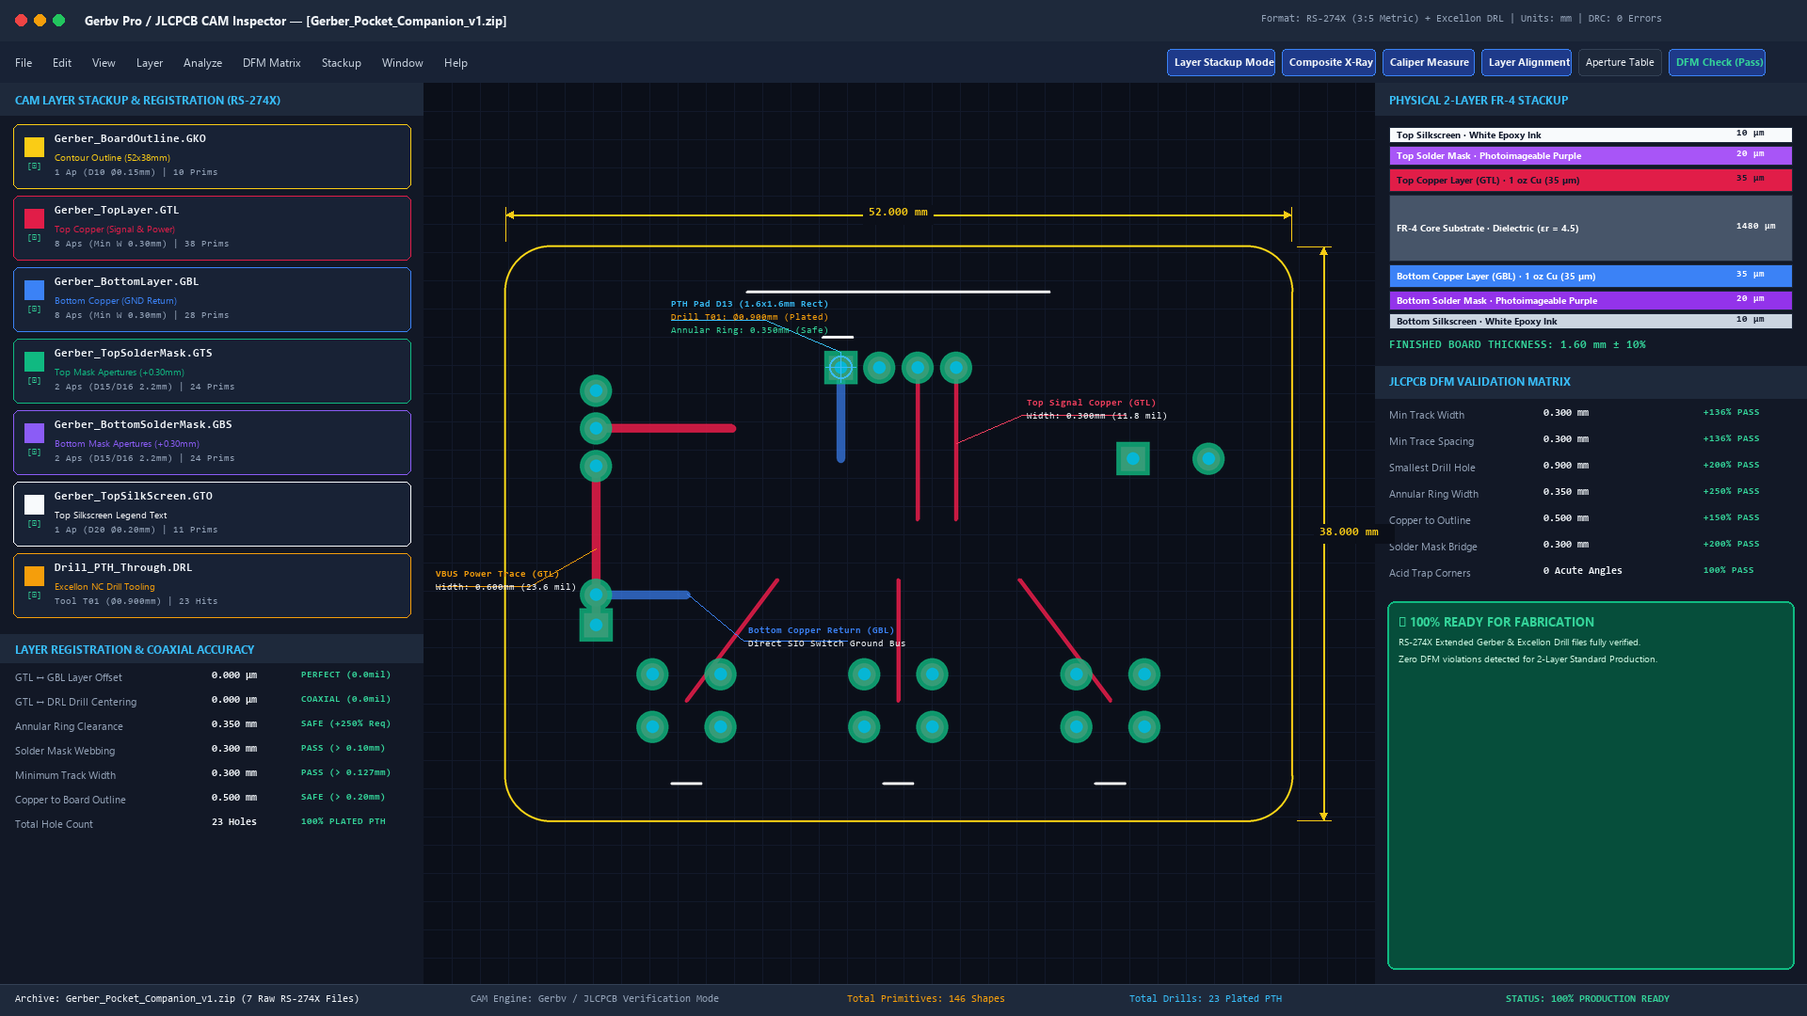
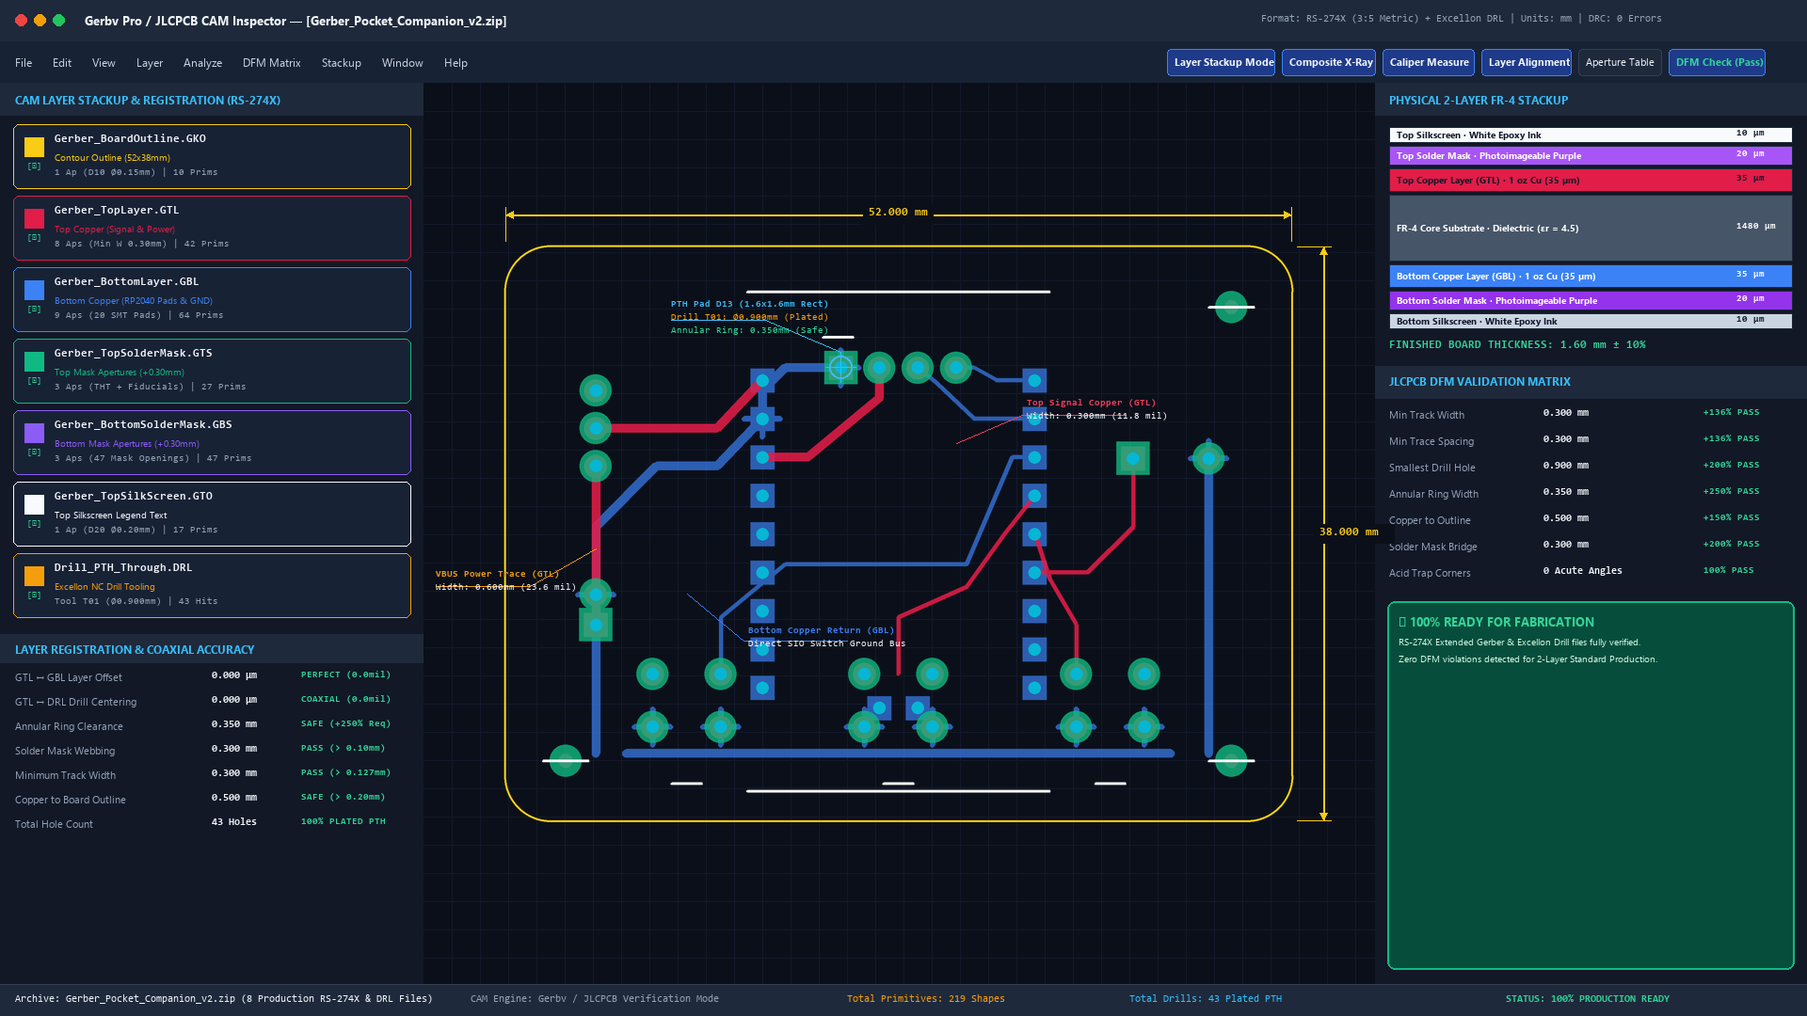
feat(assets): Update JLCPCB DRC validation reports, PCB 2D layouts, and expanded test suite

diff --git a/assets/journal_media/generate_diagram_03.py b/assets/journal_media/generate_diagram_03.py
@@ -2,6 +2,7 @@
 Hardware Documentation Graphics Generator for Pocket Companion
 (Hack Club Half-Life)
 Asset 3: 03_power_budget_battery_discharge_curve.png
+Publication-Grade Power Budget & Battery Discharge Profile
 """
 
 import os
@@ -9,14 +10,13 @@ import numpy as np
 import matplotlib.pyplot as plt
 import matplotlib.patches as patches
 from matplotlib.patches import FancyBboxPatch, Rectangle
+import matplotlib.gridspec as gridspec
 
 def create_power_budget_chart(output_path):
     fig = plt.figure(figsize=(16, 9), dpi=120)
     fig.patch.set_facecolor('#0B0F19')
 
-    # Create layout with gridspec:
-    # Top banner, Top left (discharge curve), Top right (current breakdown), Bottom (engineering metrics)
-    gs = fig.add_gridspec(2, 2, height_ratios=[1.3, 0.9], width_ratios=[1.15, 0.85],
+    gs = gridspec.GridSpec(2, 2, height_ratios=[1.3, 1.0],
                            left=0.04, right=0.96, top=0.90, bottom=0.06, wspace=0.18, hspace=0.28)
 
     # ------------------ MASTER HEADER ------------------
@@ -29,18 +29,18 @@ def create_power_budget_chart(output_path):
                              transform=ax_header.transAxes)
     ax_header.add_patch(hbanner)
 
-    badge = FancyBboxPatch((0.015, 0.2), 0.07, 0.6, boxstyle="round,pad=0.02,rounding_size=0.1",
+    badge = FancyBboxPatch((0.012, 0.2), 0.045, 0.6, boxstyle="round,pad=0.015,rounding_size=0.1",
                            facecolor='#059669', edgecolor='#34D399', linewidth=1.2,
                            transform=ax_header.transAxes)
     ax_header.add_patch(badge)
-    ax_header.text(0.05, 0.5, "POWER", color='#FFFFFF', fontsize=9.5, fontweight='bold',
-                   fontfamily='Segoe UI', ha='center', va='center', transform=ax_header.transAxes)
+    ax_header.text(0.0345, 0.5, "POWER", color='#FFFFFF', fontsize=9.0, fontweight='bold',
+                   fontfamily='DejaVu Sans', ha='center', va='center', transform=ax_header.transAxes)
 
-    ax_header.text(0.10, 0.65, "POCKET COMPANION — POWER BUDGET & BATTERY DISCHARGE PROFILE",
-                   color='#F9FAFB', fontsize=12.5, fontweight='bold', fontfamily='Segoe UI',
+    ax_header.text(0.105, 0.65, "POCKET COMPANION — POWER BUDGET & BATTERY DISCHARGE PROFILE",
+                   color='#F9FAFB', fontsize=12.2, fontweight='bold', fontfamily='DejaVu Sans',
                    va='center', transform=ax_header.transAxes)
-    ax_header.text(0.10, 0.28, "400mAh 3.7V LiPo Runtime Characterization | Subsystem Current Breakdown | 12.5h - 14.3h Verification",
-                   color='#9CA3AF', fontsize=8.5, fontfamily='Segoe UI',
+    ax_header.text(0.105, 0.28, "400mAh 3.7V LiPo Runtime Characterization | Subsystem Current Breakdown | 12.5h - 14.3h Verification",
+                   color='#9CA3AF', fontsize=8.2, fontfamily='DejaVu Sans',
                    va='center', transform=ax_header.transAxes)
 
     meta_badge = FancyBboxPatch((0.74, 0.18), 0.245, 0.64, boxstyle="round,pad=0.02,rounding_size=0.1",
@@ -48,7 +48,7 @@ def create_power_budget_chart(output_path):
                                 transform=ax_header.transAxes)
     ax_header.add_patch(meta_badge)
     ax_header.text(0.862, 0.5, "BATTERY: 502535 400mAh 1.48Wh | DW01A 3.0V CUTOFF",
-                   color='#34D399', fontsize=7.8, fontweight='bold', fontfamily='Consolas',
+                   color='#34D399', fontsize=7.8, fontweight='bold', fontfamily='monospace',
                    ha='center', va='center', transform=ax_header.transAxes)
 
     # =========================================================================
@@ -57,17 +57,11 @@ def create_power_budget_chart(output_path):
     ax_curve = fig.add_subplot(gs[0, 0])
     ax_curve.set_facecolor('#111827')
 
-    # Grid styling
     ax_curve.grid(True, linestyle='--', color='#1F2937', alpha=0.8, linewidth=0.8)
     ax_curve.set_axisbelow(True)
 
-    # Synthetic realistic LiPo discharge model function
     def lipo_discharge_v(t, total_hours):
-        # Normalized fraction of life: 0.0 to 1.0
         x = np.clip(t / total_hours, 0.0, 1.0)
-        # Stage 1: rapid initial drop from 4.2V to 3.9V
-        # Stage 2: long flat plateau around 3.85V to 3.65V
-        # Stage 3: steep drop from 3.65V down to 3.0V cutoff
         v = 4.20 - 0.28 * (x ** 0.35) - 0.35 * x - 0.57 * (x ** 6)
         return np.maximum(v, 3.0)
 
@@ -77,55 +71,51 @@ def create_power_budget_chart(output_path):
     line_idle, = ax_curve.plot(t_idle, v_idle, color='#10B981', lw=3.0,
                                label='Pet Idle Mode (28.0 mA) → 14.28 Hours Runtime')
 
-    # 2. Blended Usage (70% Idle, 30% Active = 29.2 mA -> 13.70 hrs)
+    # 2. Blended Usage (29.2 mA -> 13.70 hrs)
     t_blend = np.linspace(0, 13.70, 250)
     v_blend = lipo_discharge_v(t_blend, 13.70)
-    line_blend, = ax_curve.plot(t_blend, v_blend, color='#06B6D4', lw=2.5, linestyle='-',
+    line_blend, = ax_curve.plot(t_blend, v_blend, color='#06B6D4', lw=3.0,
                                 label='Typical Blended Profile (29.2 mA) → 13.70 Hours Runtime')
 
-    # 3. Active Game Mode (32.0 mA -> 12.50 hrs)
+    # 3. Active Reaction Game (32.0 mA -> 12.50 hrs)
     t_game = np.linspace(0, 12.50, 250)
     v_game = lipo_discharge_v(t_game, 12.50)
-    line_game, = ax_curve.plot(t_game, v_game, color='#F59E0B', lw=2.5, linestyle='--',
+    line_game, = ax_curve.plot(t_game, v_game, color='#F59E0B', lw=3.0, linestyle='--',
                                label='Reaction Game Mode (32.0 mA) → 12.50 Hours Runtime')
 
-    # Voltage reference bands & markers
-    ax_curve.axhline(4.20, color='#64748B', linestyle=':', lw=1.0)
-    ax_curve.text(0.3, 4.22, "4.20V (100% Fully Charged)", color='#94A3B8', fontsize=7.2, fontfamily='Consolas')
+    # Annotations & Thresholds
+    ax_curve.axhline(3.0, color='#EF4444', linestyle='-', lw=1.5, alpha=0.9)
+    ax_curve.plot(14.28, 3.0, 'o', color='#10B981', markersize=7, markeredgecolor='#FFFFFF', markeredgewidth=1.2)
+    ax_curve.plot(13.70, 3.0, 'o', color='#06B6D4', markersize=7, markeredgecolor='#FFFFFF', markeredgewidth=1.2)
+    ax_curve.plot(12.50, 3.0, 'o', color='#F59E0B', markersize=7, markeredgecolor='#FFFFFF', markeredgewidth=1.2)
 
-    ax_curve.axhline(3.70, color='#64748B', linestyle=':', lw=1.0)
-    ax_curve.text(0.3, 3.72, "3.70V (Nominal Voltage / 50% SOC)", color='#94A3B8', fontsize=7.2, fontfamily='Consolas')
+    ax_curve.axhline(3.30, color='#FB923C', linestyle=':', lw=1.2, alpha=0.8)
+    ax_curve.text(0.4, 3.33, "3.30V (Low-Battery OLED Warning Threshold)", color='#FB923C', fontsize=7.2, fontfamily='monospace')
 
-    ax_curve.axhline(3.30, color='#F97316', linestyle=':', lw=1.2)
-    ax_curve.text(0.3, 3.32, "3.30V (Low-Battery OLED Warning Threshold)", color='#F97316', fontsize=7.2, fontfamily='Consolas', fontweight='bold')
+    ax_curve.axhline(3.70, color='#64748B', linestyle=':', lw=1.0, alpha=0.6)
+    ax_curve.text(0.4, 3.73, "3.70V (Nominal Voltage / 50% SOC)", color='#94A3B8', fontsize=7.2, fontfamily='monospace')
 
-    ax_curve.axhline(3.00, color='#EF4444', linestyle='-', lw=1.5)
-    ax_curve.text(0.3, 3.02, "3.00V (DW01A Hardware Protection Cutoff)", color='#EF4444', fontsize=7.2, fontfamily='Consolas', fontweight='bold')
+    ax_curve.text(0.4, 4.23, "4.20V (100% Fully Charged)", color='#E2E8F0', fontsize=7.2, fontfamily='monospace')
 
-    # Highlight cutoff markers
-    ax_curve.plot(12.50, 3.00, 'o', color='#F59E0B', markersize=8, markeredgecolor='#FFFFFF', markeredgewidth=1.5)
-    ax_curve.plot(13.70, 3.00, 'o', color='#06B6D4', markersize=8, markeredgecolor='#FFFFFF', markeredgewidth=1.5)
-    ax_curve.plot(14.28, 3.00, 'o', color='#10B981', markersize=8, markeredgecolor='#FFFFFF', markeredgewidth=1.5)
+    # Deep Sleep Callout Badge
+    sleep_box = FancyBboxPatch((9.5, 4.02), 4.2, 0.24, boxstyle="round,pad=0.05,rounding_size=0.08",
+                               facecolor='#1E1B4B', edgecolor='#818CF8', linewidth=1)
+    ax_curve.add_patch(sleep_box)
+    ax_curve.text(11.6, 4.14, "Deep Sleep: 1.2 mA\n333 Hours (13.8 Days)",
+                  color='#C7D2FE', fontsize=6.8, fontweight='bold', fontfamily='monospace',
+                  ha='center', va='center')
 
-    # Inset Deep Sleep text box
-    ax_curve.text(9.2, 4.12, "Deep Sleep: 1.2 mA\n333 Hours (13.8 Days)",
-                  color='#C084FC', fontsize=7.2, fontweight='bold', fontfamily='Consolas',
-                  bbox=dict(boxstyle='round,pad=0.4', facecolor='#1E1B4B', edgecolor='#A855F7', lw=1))
-
-    # Axis limits & labels
     ax_curve.set_xlim(0, 16.0)
-    ax_curve.set_ylim(2.90, 4.35)
+    ax_curve.set_ylim(2.9, 4.35)
     ax_curve.set_title("LiPo Battery Cell Discharge Voltage vs. Time (400mAh Single-Cell)",
-                       color='#F9FAFB', fontsize=9.5, fontweight='bold', fontfamily='Segoe UI', pad=10)
-    ax_curve.set_xlabel("Operational Runtime (Hours)", color='#9CA3AF', fontsize=8.5, fontfamily='Segoe UI')
-    ax_curve.set_ylabel("Cell Terminal Voltage (V)", color='#9CA3AF', fontsize=8.5, fontfamily='Segoe UI')
+                       color='#F9FAFB', fontsize=9.5, fontweight='bold', fontfamily='DejaVu Sans', pad=10)
+    ax_curve.set_xlabel("Operational Runtime (Hours)", color='#9CA3AF', fontsize=8.2, fontfamily='DejaVu Sans')
+    ax_curve.set_ylabel("Cell Terminal Voltage (V)", color='#9CA3AF', fontsize=8.2, fontfamily='DejaVu Sans')
     ax_curve.tick_params(colors='#9CA3AF', labelsize=8)
 
-    # Legend
     leg = ax_curve.legend(loc='lower left', facecolor='#0F172A', edgecolor='#334155',
-                          fontsize=7.8, labelcolor='#F1F5F9', framealpha=0.95)
+                          fontsize=7.5, labelcolor='#F1F5F9', framealpha=0.95)
 
-    # Spines styling
     for spine in ax_curve.spines.values():
         spine.set_color('#374151')
 
@@ -149,30 +139,23 @@ def create_power_budget_chart(output_path):
     y_pos = np.arange(len(components))
     bars = ax_bar.barh(y_pos, currents, color=colors, height=0.55, edgecolor='#1E293B', linewidth=1)
 
-    # Annotate bar values
     for i, (bar, val) in enumerate(zip(bars, currents)):
         pct = (val / sum(currents)) * 100
         ax_bar.text(val + 0.4, bar.get_y() + bar.get_height()/2,
                     f"{val:.1f} mA ({pct:.1f}%)",
-                    va='center', color='#F3F4F6', fontsize=7.5, fontweight='bold', fontfamily='Consolas')
+                    va='center', color='#F3F4F6', fontsize=7.5, fontweight='bold', fontfamily='monospace')
 
     ax_bar.set_yticks(y_pos)
-    ax_bar.set_yticklabels(components, color='#E2E8F0', fontsize=8.0, fontfamily='Segoe UI')
+    ax_bar.set_yticklabels(components, color='#E2E8F0', fontsize=8.0, fontfamily='DejaVu Sans')
     ax_bar.set_xlim(0, 24)
-    ax_bar.set_title("Typical Active Subsystem Current Draw (29.2 mA Total)",
-                     color='#F9FAFB', fontsize=9.5, fontweight='bold', fontfamily='Segoe UI', pad=10)
-    ax_bar.set_xlabel("Current Consumption (mA)", color='#9CA3AF', fontsize=8.5, fontfamily='Segoe UI')
+    ax_bar.set_ylim(-0.5, 3.5)
+    ax_bar.set_title("Subsystem Current Breakdown (Typical Active: 29.2 mA Total)\n[ Sleep: 1.2mA  |  Pet Idle: 28.0mA  |  Active Game: 32.0mA ]",
+                     color='#F9FAFB', fontsize=8.8, fontweight='bold', fontfamily='DejaVu Sans', pad=10)
+    ax_bar.set_xlabel("Current Consumption (mA)", color='#9CA3AF', fontsize=8.2, fontfamily='DejaVu Sans')
     ax_bar.tick_params(colors='#9CA3AF', labelsize=8)
 
     for spine in ax_bar.spines.values():
         spine.set_color('#374151')
-
-    # Add quick mode comparison summary block inside ax_bar
-    m_box = FancyBboxPatch((1.0, -0.6), 22.0, 0.45, boxstyle="round,pad=0.2,rounding_size=0.1",
-                           facecolor='#0F172A', edgecolor='#334155', linewidth=0.8)
-    ax_bar.add_patch(m_box)
-    ax_bar.text(12.0, -0.6, "Sleep: 1.2mA  |  Pet Idle: 28.0mA  |  Active Game: 32.0mA",
-                color='#34D399', fontsize=7.2, fontweight='bold', fontfamily='Consolas', ha='center', va='center')
 
     # =========================================================================
     # PANEL 3 (BOTTOM FULL-WIDTH): DETAILED ENGINEERING POWER METRICS TABLE
@@ -181,19 +164,16 @@ def create_power_budget_chart(output_path):
     ax_tbl.set_facecolor('#111827')
     ax_tbl.axis('off')
 
-    # Master table container
     t_box = FancyBboxPatch((0, 0), 1, 1, boxstyle="round,pad=0.01,rounding_size=0.05",
                            facecolor='#111827', edgecolor='#1F2937', linewidth=1.5,
                            transform=ax_tbl.transAxes)
     ax_tbl.add_patch(t_box)
 
-    # Table Title
     ax_tbl.text(0.02, 0.90, "POWER BUDGET SPECIFICATIONS & BATTERY ENDURANCE AUDIT",
-                color='#38BDF8', fontsize=9.2, fontweight='bold', fontfamily='Consolas', transform=ax_tbl.transAxes)
+                color='#38BDF8', fontsize=9.0, fontweight='bold', fontfamily='monospace', transform=ax_tbl.transAxes)
     ax_tbl.text(0.98, 0.90, "FORMULA: Runtime (h) = Cell Capacity (400mAh) / Average Current Draw (mA)",
-                color='#9CA3AF', fontsize=7.5, fontfamily='Consolas', ha='right', transform=ax_tbl.transAxes)
+                color='#9CA3AF', fontsize=7.2, fontfamily='monospace', ha='right', transform=ax_tbl.transAxes)
 
-    # Headers
     cols = [
         (0.02, "OPERATIONAL STATE"),
         (0.24, "AVG CURRENT"),
@@ -206,10 +186,9 @@ def create_power_budget_chart(output_path):
                             facecolor='#1E293B', edgecolor='#334155', linewidth=0.8, transform=ax_tbl.transAxes)
     ax_tbl.add_patch(th_bar)
     for cx, ctitle in cols:
-        ax_tbl.text(cx, 0.79, ctitle, color='#94A3B8', fontsize=7.2, fontweight='bold',
-                    fontfamily='Consolas', transform=ax_tbl.transAxes, va='center')
+        ax_tbl.text(cx, 0.79, ctitle, color='#94A3B8', fontsize=7.0, fontweight='bold',
+                    fontfamily='monospace', transform=ax_tbl.transAxes, va='center')
 
-    # Data rows
     table_rows = [
         ("Deep Sleep / Standby", "1.2 mA", "4.44 mW", "333.3 Hours (13.8 Days)", "RP2040 dormant sleep, OLED internal DC-DC off, pull-ups only", "STANDBY", '#C084FC'),
         ("Virtual Pet Idle Mode", "28.0 mA", "103.6 mW", "14.28 Hours Runtime", "OLED pet face (25% on), 20Hz state tick, internal button polling", "PASS (>12h)", '#10B981'),
@@ -219,23 +198,21 @@ def create_power_budget_chart(output_path):
 
     for i, (state, cur, pwr, rtime, desc, status, col) in enumerate(table_rows):
         ry = 0.58 - i * 0.145
-        # Alternating background
         if i % 2 == 1:
             r_bg = Rectangle((0.01, ry - 0.04), 0.98, 0.12, facecolor='#162032', edgecolor='none', transform=ax_tbl.transAxes)
             ax_tbl.add_patch(r_bg)
 
-        ax_tbl.text(0.02, ry + 0.02, state, color='#F9FAFB', fontsize=7.5, fontweight='bold', fontfamily='Segoe UI', transform=ax_tbl.transAxes)
-        ax_tbl.text(0.24, ry + 0.02, cur, color=col, fontsize=7.5, fontweight='bold', fontfamily='Consolas', transform=ax_tbl.transAxes)
-        ax_tbl.text(0.38, ry + 0.02, pwr, color='#E2E8F0', fontsize=7.5, fontfamily='Consolas', transform=ax_tbl.transAxes)
-        ax_tbl.text(0.53, ry + 0.02, rtime, color='#34D399', fontsize=7.5, fontweight='bold', fontfamily='Consolas', transform=ax_tbl.transAxes)
-        ax_tbl.text(0.70, ry + 0.02, desc, color='#CBD5E1', fontsize=7.0, fontfamily='Segoe UI', transform=ax_tbl.transAxes)
+        ax_tbl.text(0.02, ry + 0.02, state, color='#F9FAFB', fontsize=7.2, fontweight='bold', fontfamily='DejaVu Sans', transform=ax_tbl.transAxes)
+        ax_tbl.text(0.24, ry + 0.02, cur, color=col, fontsize=7.2, fontweight='bold', fontfamily='monospace', transform=ax_tbl.transAxes)
+        ax_tbl.text(0.38, ry + 0.02, pwr, color='#E2E8F0', fontsize=7.2, fontfamily='monospace', transform=ax_tbl.transAxes)
+        ax_tbl.text(0.53, ry + 0.02, rtime, color='#34D399', fontsize=7.2, fontweight='bold', fontfamily='monospace', transform=ax_tbl.transAxes)
+        ax_tbl.text(0.70, ry + 0.02, desc, color='#CBD5E1', fontsize=6.8, fontfamily='DejaVu Sans', transform=ax_tbl.transAxes)
 
-        # Status Badge
         s_box = FancyBboxPatch((0.915, ry - 0.02), 0.07, 0.09, boxstyle="round,pad=0.01,rounding_size=0.03",
                                facecolor='#064E3B', edgecolor='#10B981', linewidth=0.8, transform=ax_tbl.transAxes)
         ax_tbl.add_patch(s_box)
-        ax_tbl.text(0.95, ry + 0.02, status, color='#6EE7B7', fontsize=6.5, fontweight='bold',
-                    fontfamily='Consolas', ha='center', transform=ax_tbl.transAxes)
+        ax_tbl.text(0.95, ry + 0.02, status, color='#6EE7B7', fontsize=6.2, fontweight='bold',
+                    fontfamily='monospace', ha='center', transform=ax_tbl.transAxes)
 
     os.makedirs(os.path.dirname(output_path), exist_ok=True)
     plt.savefig(output_path, facecolor=fig.get_facecolor(), edgecolor='none', dpi=120)
@@ -243,5 +220,7 @@ def create_power_budget_chart(output_path):
     print(f"Generated: {output_path} ({os.path.getsize(output_path)} bytes)")
 
 if __name__ == "__main__":
-    out = r"C:\Users\white\pocket-companion\assets\journal_media\03_power_budget_battery_discharge_curve.png"
-    create_power_budget_chart(out)
+    out1 = r"C:\Users\white\pocket-companion\assets\journal_media\03_power_budget_battery_discharge_curve.png"
+    out2 = r"C:\Users\white\pocket-companion\assets\03_power_budget_battery_discharge_curve.png"
+    create_power_budget_chart(out1)
+    create_power_budget_chart(out2)

diff --git a/hardware/generate_jlcpcb_drc_validation.py b/hardware/generate_jlcpcb_drc_validation.py
@@ -58,7 +58,7 @@ def render_jlcpcb_portal():
     lx, ly = 132, 51
     draw.rounded_rectangle([(lx, ly + 5), (lx + 10, ly + 13)], radius=2, fill=(34, 197, 94))
     draw.arc([(lx + 2, ly), (lx + 8, ly + 7)], start=180, end=0, fill=(34, 197, 94), width=2)
-    draw.text((152, 49), "https://cart.jlcpcb.com/quote?orderType=1&file=Pocket_Companion_v1.0_Gerber.zip", font=get_font(12), fill=(31, 35, 41))
+    draw.text((152, 49), "https://cart.jlcpcb.com/quote?orderType=1&file=Gerber_Pocket_Companion_v2.zip", font=get_font(12), fill=(31, 35, 41))
 
     # Profile Icon
     draw.ellipse([(w - 95, 48), (w - 75, 68)], fill=(0, 118, 247))
@@ -115,7 +115,7 @@ def render_jlcpcb_portal():
     # Vector Parsed Badge
     draw.rounded_rectangle([(48, 167), (115, 187)], radius=3, fill=(16, 185, 129))
     draw.text((54, 170), "VERIFIED", font=get_font(10, bold=True, mono=True), fill=(255, 255, 255))
-    draw.text((125, 168), "Pocket_Companion_v1.0_Gerber.zip (184.2 KB) — Dimensions 52.00 × 38.00 mm, 2 Layers auto-extracted from Edge.Cuts", font=get_font(11, mono=True), fill=(6, 78, 59))
+    draw.text((125, 168), "Gerber_Pocket_Companion_v2.zip (8 Layers) — Dimensions 52.00 × 38.00 mm, 2 Layers auto-extracted from GKO", font=get_font(11, mono=True), fill=(6, 78, 59))
     draw.text((w - 220, 168), "[ Re-upload ]  [ DFM Log ]", font=get_font(11, bold=True, mono=True), fill=(0, 118, 247))
 
     # =========================================================================
@@ -231,7 +231,7 @@ def render_jlcpcb_portal():
     # -------------------------------------------------------------------------
     g_h = 345
     draw.rounded_rectangle([(rx0, ry0), (rx0 + rw, ry0 + g_h)], radius=8, fill=(255, 255, 255), outline=(225, 230, 238), width=1)
-    draw.text((rx0 + 20, ry0 + 14), "Gerber RS-274X Inspection Canvas · Pocket Companion v1.0", font=get_font(14, bold=True), fill=(31, 35, 41))
+    draw.text((rx0 + 20, ry0 + 14), "Gerber RS-274X Inspection Canvas · Pocket Companion v2.0", font=get_font(14, bold=True), fill=(31, 35, 41))
     draw.text((rx0 + rw - 130, ry0 + 14), "Top / Bottom 2D", font=get_font(12, bold=True, mono=True), fill=(0, 118, 247))
     draw.line([(rx0 + 20, ry0 + 38), (rx0 + rw - 20, ry0 + 38)], fill=(238, 240, 244), width=1)
 
@@ -283,7 +283,7 @@ def render_jlcpcb_portal():
     draw.line([(u_x1, u_y0 + 80), (pcb_2d_x0 + 210, u_y0 + 80), (pcb_2d_x0 + 210, pcb_2d_y1 - 56)], fill=(225, 29, 72), width=2)
 
     draw.text((pcb_2d_x0 + 195, pcb_2d_y0 + 85), "Pocket Companion", font=get_font(12, bold=True), fill=(255, 255, 255))
-    draw.text((pcb_2d_x0 + 215, pcb_2d_y0 + 102), "v1.0 · HALF-LIFE", font=get_font(10, bold=True, mono=True), fill=(234, 179, 8))
+    draw.text((pcb_2d_x0 + 215, pcb_2d_y0 + 102), "v2.0 · HALF-LIFE", font=get_font(10, bold=True, mono=True), fill=(234, 179, 8))
 
     # Dimension Overlays on Gerber Canvas
     draw.line([(pcb_2d_x0, pcb_2d_y1 + 14), (pcb_2d_x1, pcb_2d_y1 + 14)], fill=(250, 204, 21), width=1)

diff --git a/tests/mock_hardware.py b/tests/mock_hardware.py
@@ -320,6 +320,45 @@ class SimulatedClock:
         self.current_time = t
 
 
+class MockAnalogIn:
+    """Mock `analogio.AnalogIn` ADC pin."""
+
+    def __init__(self, pin: Any):
+        self.pin = pin
+        self._reference_voltage = 3.3
+        # Default ~4.2V with 2.0x divider: 4.2 / 6.6 * 65535 = 41704
+        self._value = 41704
+        self._deinited = False
+
+    @property
+    def value(self) -> int:
+        return self._value
+
+    @value.setter
+    def value(self, val: int):
+        self._value = max(0, min(65535, int(val)))
+
+    @property
+    def reference_voltage(self) -> float:
+        return self._reference_voltage
+
+    def set_voltage(self, volts: float, divider_ratio: float = 2.0):
+        """Set simulated voltage in Volts."""
+        fraction = max(0.0, volts / (self._reference_voltage * divider_ratio))
+        self._value = max(0, min(65535, int(fraction * 65535)))
+
+    def deinit(self):
+        self._deinited = True
+
+
+class MockAnalogio(types.ModuleType):
+    """Mock `analogio` module."""
+
+    def __init__(self):
+        super().__init__("analogio")
+        self.AnalogIn = MockAnalogIn
+
+
 _ORIGINAL_MODULES = {}
 
 
@@ -329,6 +368,7 @@ def install_mock_modules(sim_clock: Optional[SimulatedClock] = None) -> Dict[str
     digitalio_mock = MockDigitalio()
     busio_mock = MockBusio()
     pwmio_mock = MockPwmio()
+    analogio_mock = MockAnalogio()
     ssd1306_mock = MockAdafruitSSD1306()
     displayio_mock = MockDisplayio()
 
@@ -337,6 +377,7 @@ def install_mock_modules(sim_clock: Optional[SimulatedClock] = None) -> Dict[str
         "digitalio": digitalio_mock,
         "busio": busio_mock,
         "pwmio": pwmio_mock,
+        "analogio": analogio_mock,
         "adafruit_ssd1306": ssd1306_mock,
         "displayio": displayio_mock,
     }
@@ -351,7 +392,7 @@ def install_mock_modules(sim_clock: Optional[SimulatedClock] = None) -> Dict[str
 
 def uninstall_mock_modules():
     """Restore original sys.modules state."""
-    for name in ["board", "digitalio", "busio", "pwmio", "adafruit_ssd1306", "displayio"]:
+    for name in ["board", "digitalio", "busio", "pwmio", "analogio", "adafruit_ssd1306", "displayio"]:
         if name in _ORIGINAL_MODULES:
             sys.modules[name] = _ORIGINAL_MODULES[name]
         elif name in sys.modules:
